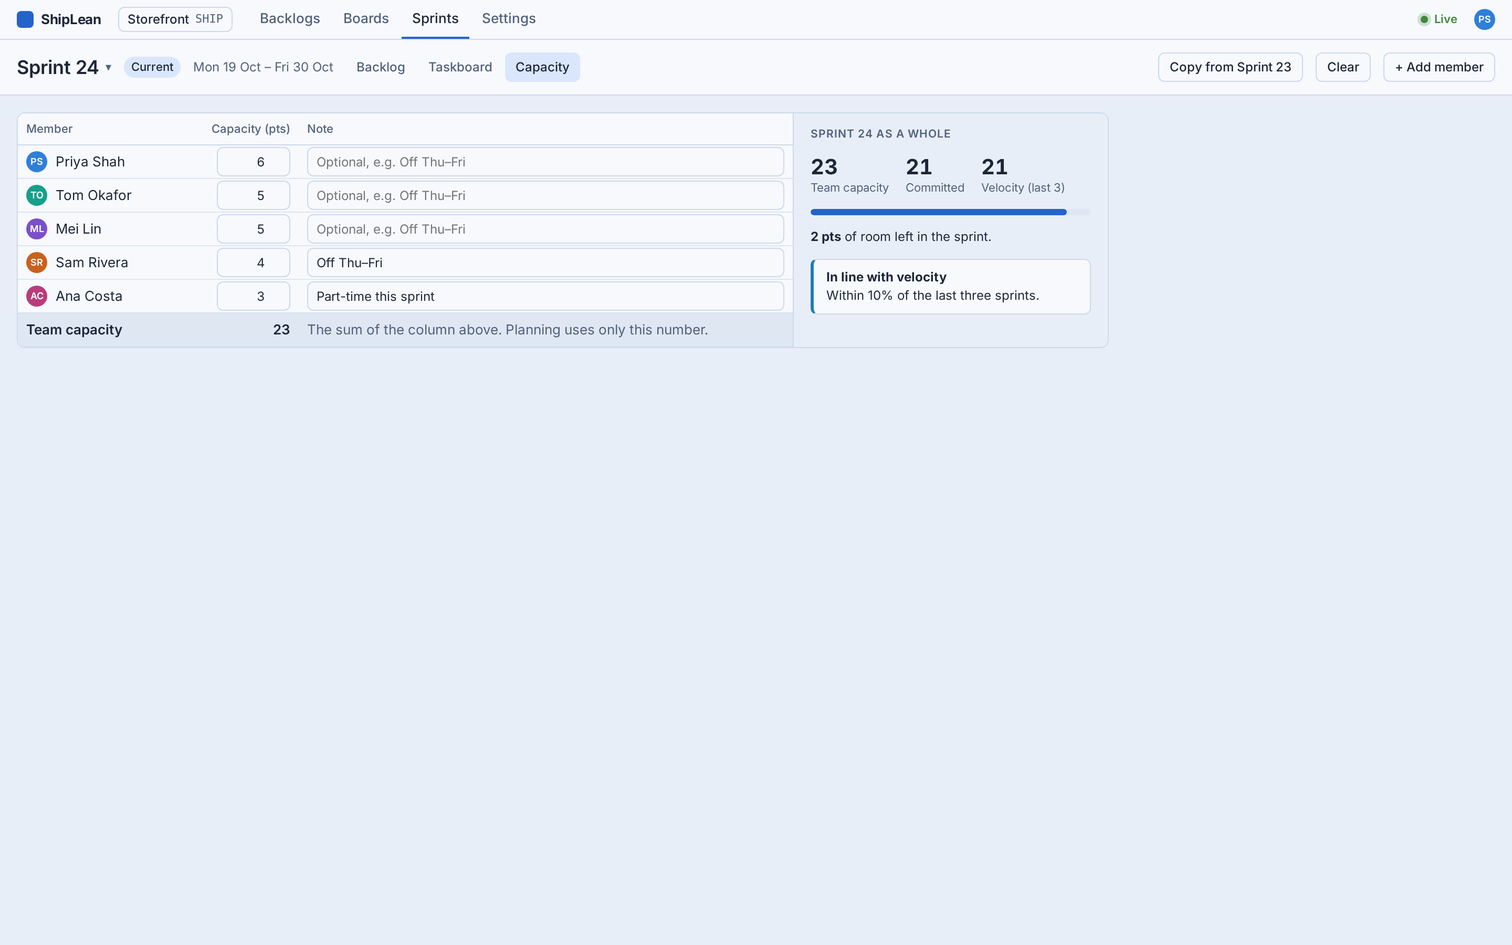
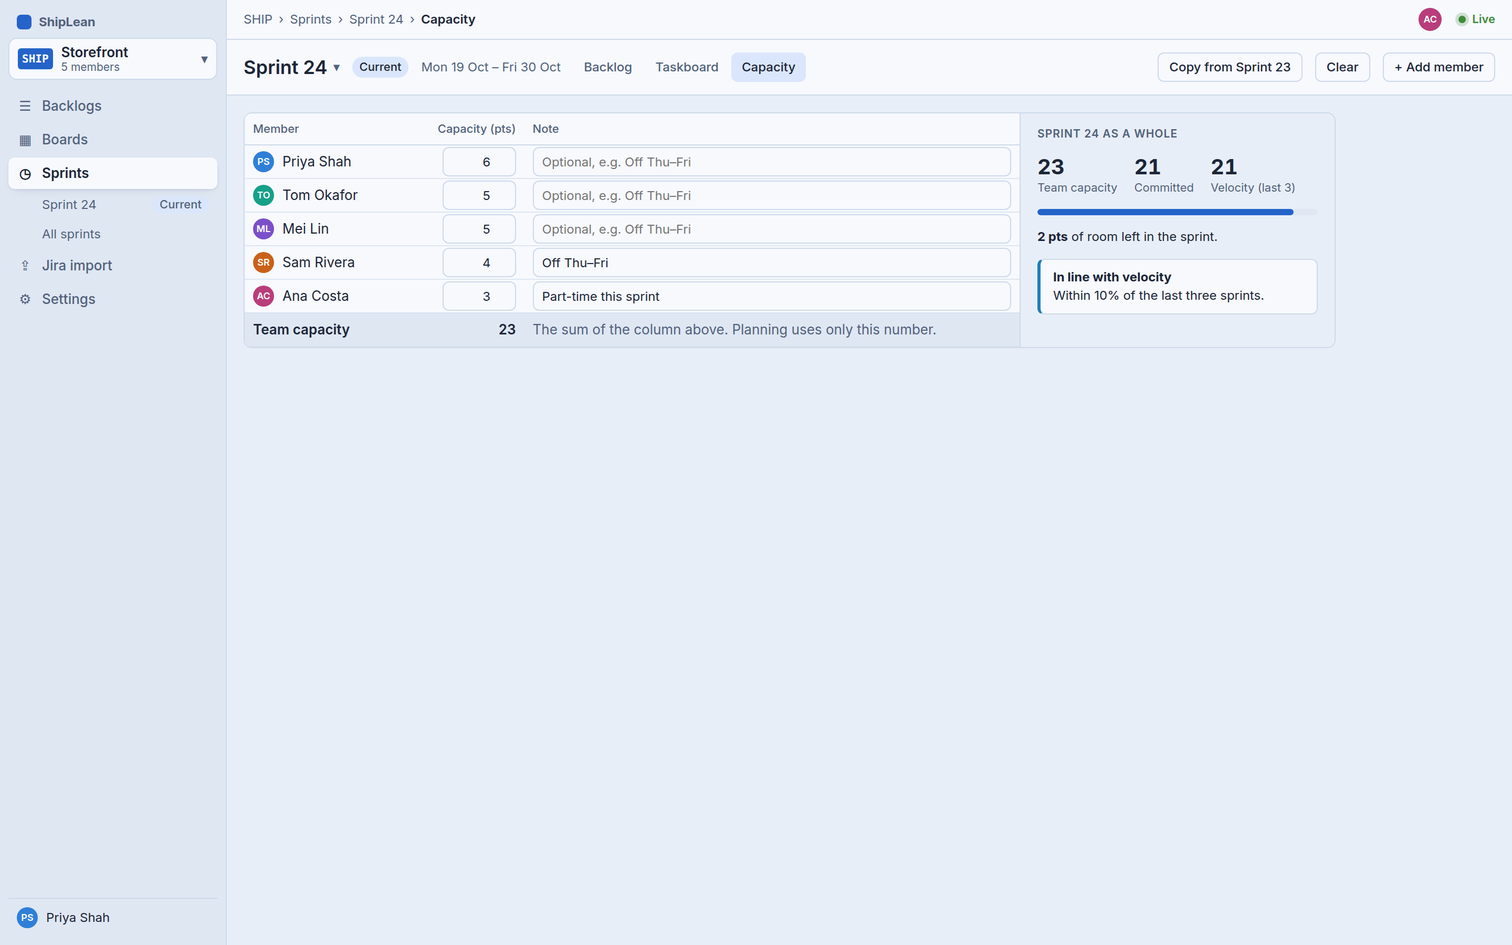
Use the PR #5 screens: board hero, eight-screen tour, Boards and Jira import spotlights
All screenshots now come from the side-menu shell in joeldickson/shiplean#5.

diff --git a/site/index.html b/site/index.html
@@ -344,8 +344,9 @@
   .brand .mark-sm i { left: 5px; top: 13px; width: 4px; height: 1.6px; }
 
   /* Crops for the spotlights */
-  .crop.plan img { object-position: left bottom; transform: scale(1.25); transform-origin: 0% 100%; }
-  .crop.styles img { transform: scale(1.3); transform-origin: 50% 50%; }
+  .crop.plan img { transform: scale(1.25); transform-origin: 30% 100%; }
+  .crop.board img { transform: scale(1.35); transform-origin: 60% 0%; }
+  .crop.jira img { object-position: left top; transform: scale(1.19); transform-origin: 100% 0%; }
   .crop.end img { transform: scale(1.75); transform-origin: 50% 50%; }
 </style>
 </head>
@@ -382,8 +383,8 @@
       <a href="#why">Why ShipLean</a>
       <a href="#tour">Tour</a>
       <a href="#forecast">Forecast</a>
-      <a href="#taskboard">Taskboard</a>
-      <a href="#sprint-end">Sprint end</a>
+      <a href="#board">Boards</a>
+      <a href="#jira">Jira import</a>
       <a href="#roadmap">Roadmap</a>
     </nav>
     <div class="nav-spacer"></div>
@@ -400,7 +401,7 @@
     <div class="wrap">
       <span class="pill"><span class="tag">Coming soon</span><span class="dot" aria-hidden="true"></span>Free and open source, built in the open</span>
       <h1>Plan less.<br><span class="grad">Ship more.</span></h1>
-      <p class="lede">ShipLean is a free, open-source planning tool you host yourself. Rank the backlog, plan sprints against what the team can really do and run the sprint on a live taskboard, with a forecast that tells you what fits before anyone asks.</p>
+      <p class="lede">ShipLean is a free, open-source planning tool you host yourself. Rank the backlog, run a Kanban board, plan sprints against what the team can really do and work the sprint on a live taskboard, with a forecast that tells you what fits before anyone asks.</p>
       <div class="cta-row">
         <a class="btn btn-primary" href="https://github.com/shiplean"><svg><use href="#i-gh"/></svg>Follow on GitHub</a>
         <a class="btn btn-ghost" href="#tour">Take the tour<svg><use href="#i-arrow"/></svg></a>
@@ -413,29 +414,29 @@
 
       <div class="stage">
         <div class="side l frame" aria-hidden="true">
-          <img class="only-light" src="shots/sprint-backlog-light.webp" alt="">
-          <img class="only-dark" src="shots/sprint-backlog-dark.webp" alt="">
+          <img class="only-light" src="shots/planning-light.webp" alt="">
+          <img class="only-dark" src="shots/planning-dark.webp" alt="">
         </div>
         <div class="side r frame" aria-hidden="true">
-          <img class="only-light" src="shots/taskboard-light.webp" alt="">
-          <img class="only-dark" src="shots/taskboard-dark.webp" alt="">
+          <img class="only-light" src="shots/work-item-light.webp" alt="">
+          <img class="only-dark" src="shots/work-item-dark.webp" alt="">
         </div>
         <div class="main frame">
           <div class="frame-bar"><i></i><i></i><i></i><span class="url"><svg><use href="#i-lock"/></svg>shiplean.app</span><span class="bal"></span></div>
-          <img class="only-light" src="shots/planning-light.webp" alt="The ShipLean Planning screen: Sprint 24, 25 and 26 stacked above the ranked backlog, with capacity bars and a forecast line for each future sprint" width="2000" height="1250">
-          <img class="only-dark" src="shots/planning-dark.webp" alt="The ShipLean Planning screen in dark mode" width="2000" height="1250">
+          <img class="only-light" src="shots/board-light.webp" alt="The ShipLean Stories board: columns mapped to states, WIP limits, an Expedite swimlane and cards with tags, task roll-ups and assignees" width="2000" height="1250">
+          <img class="only-dark" src="shots/board-dark.webp" alt="The ShipLean Stories board in dark mode" width="2000" height="1250">
         </div>
         <div class="callout c1">
-          <span class="ic" style="background:var(--color-accent-soft);color:var(--color-accent)"><svg><use href="#i-right"/></svg></span>
-          <span><b>→ Sprint 26</b><span class="muted">Forecast at velocity 21</span></span>
+          <span class="ic" style="background:color-mix(in srgb, var(--color-danger) 16%, transparent);color:var(--color-danger)"><svg><use href="#i-board"/></svg></span>
+          <span><b>In review 3/2</b><span class="muted">Over the WIP limit, nothing blocked</span></span>
         </div>
         <div class="callout c2">
-          <span class="ic" style="background:color-mix(in srgb, var(--type-feature) 16%, transparent);color:var(--type-feature)"><svg><use href="#i-bolt"/></svg></span>
-          <span><b>Mei moved SHIP-151</b><span class="muted">into Sprint 25, just now</span></span>
+          <span class="ic" style="background:color-mix(in srgb, var(--type-feature) 16%, transparent);color:var(--type-feature)"><svg><use href="#i-people"/></svg></span>
+          <span><b>Tom, Ana and Mei</b><span class="muted">are on this board with you</span></span>
         </div>
         <div class="callout c3">
           <span class="ic" style="background:color-mix(in srgb, var(--color-ok) 16%, transparent);color:var(--color-ok)"><svg><use href="#i-check"/></svg></span>
-          <span><b>21 / 23 pts</b><span class="muted">2 free in Sprint 24</span></span>
+          <span><b>SHIP-158 → In progress</b><span class="muted">Picked up, assigned to you</span></span>
         </div>
       </div>
     </div>
@@ -475,21 +476,49 @@
     <div class="wrap">
       <div class="sec-head center">
         <div class="eyebrow">Tour</div>
-        <h2>Six screens, one backlog.</h2>
-        <p>Planning, the sprint, the taskboard and capacity are all views over the same work items, so nothing is ever copied between them.</p>
+        <h2>Eight screens, one backlog.</h2>
+        <p>The backlog, the board, the sprint and the taskboard are all views over the same work items, so nothing is ever copied between them.</p>
       </div>
 
       <div class="tour">
         <div class="tabs" role="tablist" aria-label="ShipLean screens">
-          <button class="tab" role="tab" aria-selected="true" data-t="planning"><svg><use href="#i-list"/></svg>Planning</button>
-          <button class="tab" role="tab" aria-selected="false" data-t="sprint"><svg><use href="#i-sprint"/></svg>Sprint backlog</button>
-          <button class="tab" role="tab" aria-selected="false" data-t="taskboard"><svg><use href="#i-board"/></svg>Taskboard</button>
+          <button class="tab" role="tab" aria-selected="true" data-t="backlog"><svg><use href="#i-list"/></svg>Backlog</button>
+          <button class="tab" role="tab" aria-selected="false" data-t="board"><svg><use href="#i-board"/></svg>Boards</button>
+          <button class="tab" role="tab" aria-selected="false" data-t="planning"><svg><use href="#i-sprint"/></svg>Planning</button>
+          <button class="tab" role="tab" aria-selected="false" data-t="taskboard"><svg><use href="#i-states"/></svg>Taskboard</button>
+          <button class="tab" role="tab" aria-selected="false" data-t="work-item"><svg><use href="#i-flag"/></svg>Work item</button>
           <button class="tab" role="tab" aria-selected="false" data-t="capacity"><svg><use href="#i-people"/></svg>Capacity</button>
           <button class="tab" role="tab" aria-selected="false" data-t="sprints"><svg><use href="#i-chart"/></svg>All sprints</button>
-          <button class="tab" role="tab" aria-selected="false" data-t="end"><svg><use href="#i-flag"/></svg>Sprint end</button>
+          <button class="tab" role="tab" aria-selected="false" data-t="settings"><svg><use href="#i-gear"/></svg>Settings</button>
         </div>
 
-        <div class="panel on" id="p-planning" role="tabpanel">
+        <div class="panel on" id="p-backlog" role="tabpanel">
+          <div>
+            <h3>Rank the backlog, top to bottom</h3>
+            <p>One ordered list per level, Epics, Features or Stories, with the sprint each item is in.</p>
+            <ul class="ticks">
+              <li><svg><use href="#i-check"/></svg>New work goes in at the top</li>
+              <li><svg><use href="#i-check"/></svg>Show parents to work by Feature</li>
+              <li><svg><use href="#i-check"/></svg>A Criteria filter and your own columns</li>
+            </ul>
+          </div>
+          <div class="frame"><img class="only-light" src="shots/backlog-light.webp" alt="ShipLean Backlog screen" loading="lazy"><img class="only-dark" src="shots/backlog-dark.webp" alt="ShipLean Backlog screen, dark" loading="lazy"></div>
+        </div>
+
+        <div class="panel" id="p-board" role="tabpanel">
+          <div>
+            <h3>A Kanban board that fits your process</h3>
+            <p>Columns map to states for each type, so one board holds stories and bugs that move differently.</p>
+            <ul class="ticks">
+              <li><svg><use href="#i-check"/></svg>WIP limits that warn without blocking</li>
+              <li><svg><use href="#i-check"/></svg>Split columns and a definition of done</li>
+              <li><svg><use href="#i-check"/></svg>Swimlanes and card style rules</li>
+            </ul>
+          </div>
+          <div class="frame"><img class="only-light" src="shots/board-light.webp" alt="ShipLean Boards screen" loading="lazy"><img class="only-dark" src="shots/board-dark.webp" alt="ShipLean Boards screen, dark" loading="lazy"></div>
+        </div>
+
+        <div class="panel" id="p-planning" role="tabpanel">
           <div>
             <h3>Plan the next few sprints in one list</h3>
             <p>The current sprint, the future sprints and the backlog, stacked in one ranked list.</p>
@@ -499,20 +528,7 @@
               <li><svg><use href="#i-check"/></svg>A forecast line for each sprint the backlog reaches</li>
             </ul>
           </div>
-          <div class="frame"><img class="only-light" src="shots/planning-light.webp" alt="ShipLean Planning screen with sprint sections above the backlog" loading="lazy"><img class="only-dark" src="shots/planning-dark.webp" alt="ShipLean Planning screen, dark" loading="lazy"></div>
-        </div>
-
-        <div class="panel" id="p-sprint" role="tabpanel">
-          <div>
-            <h3>Everything about this sprint on one screen</h3>
-            <p>The goal, the burndown and the stories with their tasks, plus what's ready for someone to pick up.</p>
-            <ul class="ticks">
-              <li><svg><use href="#i-check"/></svg>Burndown against an ideal line</li>
-              <li><svg><use href="#i-check"/></svg>Change state in place from the list</li>
-              <li><svg><use href="#i-check"/></svg>Ready to pick up and In progress now, side by side</li>
-            </ul>
-          </div>
-          <div class="frame"><img class="only-light" src="shots/sprint-backlog-light.webp" alt="ShipLean Sprint backlog with burndown, tasks and a Ready to pick up rail" loading="lazy"><img class="only-dark" src="shots/sprint-backlog-dark.webp" alt="ShipLean Sprint backlog, dark" loading="lazy"></div>
+          <div class="frame"><img class="only-light" src="shots/planning-light.webp" alt="ShipLean Planning screen" loading="lazy"><img class="only-dark" src="shots/planning-dark.webp" alt="ShipLean Planning screen, dark" loading="lazy"></div>
         </div>
 
         <div class="panel" id="p-taskboard" role="tabpanel">
@@ -525,7 +541,20 @@
               <li><svg><use href="#i-check"/></svg>Finished stories fold down to a single line</li>
             </ul>
           </div>
-          <div class="frame"><img class="only-light" src="shots/taskboard-light.webp" alt="ShipLean Sprint Taskboard with stories as rows and task states as columns" loading="lazy"><img class="only-dark" src="shots/taskboard-dark.webp" alt="ShipLean Sprint Taskboard, dark" loading="lazy"></div>
+          <div class="frame"><img class="only-light" src="shots/taskboard-light.webp" alt="ShipLean Taskboard screen" loading="lazy"><img class="only-dark" src="shots/taskboard-dark.webp" alt="ShipLean Taskboard screen, dark" loading="lazy"></div>
+        </div>
+
+        <div class="panel" id="p-work-item" role="tabpanel">
+          <div>
+            <h3>Everything about one story on one page</h3>
+            <p>Description, acceptance criteria, tasks, discussion, links and the full history of every change.</p>
+            <ul class="ticks">
+              <li><svg><use href="#i-check"/></svg>Acceptance criteria as a checklist</li>
+              <li><svg><use href="#i-check"/></svg>Tasks and comments save straight away</li>
+              <li><svg><use href="#i-check"/></svg>If someone saved first, see what they changed</li>
+            </ul>
+          </div>
+          <div class="frame"><img class="only-light" src="shots/work-item-light.webp" alt="ShipLean Work item screen" loading="lazy"><img class="only-dark" src="shots/work-item-dark.webp" alt="ShipLean Work item screen, dark" loading="lazy"></div>
         </div>
 
         <div class="panel" id="p-capacity" role="tabpanel">
@@ -538,7 +567,7 @@
               <li><svg><use href="#i-check"/></svg>Copy last sprint's numbers in one click</li>
             </ul>
           </div>
-          <div class="frame"><img class="only-light" src="shots/capacity-light.webp" alt="ShipLean Capacity screen with points per member and a team total" loading="lazy"><img class="only-dark" src="shots/capacity-dark.webp" alt="ShipLean Capacity screen, dark" loading="lazy"></div>
+          <div class="frame"><img class="only-light" src="shots/capacity-light.webp" alt="ShipLean Capacity screen" loading="lazy"><img class="only-dark" src="shots/capacity-dark.webp" alt="ShipLean Capacity screen, dark" loading="lazy"></div>
         </div>
 
         <div class="panel" id="p-sprints" role="tabpanel">
@@ -551,20 +580,20 @@
               <li><svg><use href="#i-check"/></svg>Overlapping dates caught before they're saved</li>
             </ul>
           </div>
-          <div class="frame"><img class="only-light" src="shots/sprints-light.webp" alt="ShipLean All sprints screen with a velocity chart and sprint table" loading="lazy"><img class="only-dark" src="shots/sprints-dark.webp" alt="ShipLean All sprints screen, dark" loading="lazy"></div>
+          <div class="frame"><img class="only-light" src="shots/sprints-light.webp" alt="ShipLean All sprints screen" loading="lazy"><img class="only-dark" src="shots/sprints-dark.webp" alt="ShipLean All sprints screen, dark" loading="lazy"></div>
         </div>
 
-        <div class="panel" id="p-end" role="tabpanel">
+        <div class="panel" id="p-settings" role="tabpanel">
           <div>
-            <h3>Close the sprint without the shuffle</h3>
-            <p>When a sprint ends with work unfinished, ShipLean asks once where each item should go.</p>
+            <h3>States that match how you work</h3>
+            <p>Rename, add and reorder the states of each type. Colours and totals follow the category, so a rename never breaks a report.</p>
             <ul class="ticks">
-              <li><svg><use href="#i-check"/></svg>Next sprint, top of the backlog, or leave it</li>
-              <li><svg><use href="#i-check"/></svg>A warning if the next sprint goes over</li>
-              <li><svg><use href="#i-check"/></svg>History and velocity stay exactly as they were</li>
+              <li><svg><use href="#i-check"/></svg>Custom states per type, like <em>Triaged</em> or <em>In review</em></li>
+              <li><svg><use href="#i-check"/></svg>A project key that never changes</li>
+              <li><svg><use href="#i-check"/></svg>Members, working days and the velocity window</li>
             </ul>
           </div>
-          <div class="frame"><img class="only-light" src="shots/sprint-end-light.webp" alt="ShipLean Sprint end dialog listing unfinished items and where each one goes" loading="lazy"><img class="only-dark" src="shots/sprint-end-dark.webp" alt="ShipLean Sprint end dialog, dark" loading="lazy"></div>
+          <div class="frame"><img class="only-light" src="shots/settings-light.webp" alt="ShipLean Settings screen" loading="lazy"><img class="only-dark" src="shots/settings-dark.webp" alt="ShipLean Settings screen, dark" loading="lazy"></div>
         </div>
       </div>
     </div>
@@ -594,20 +623,19 @@
         </div>
       </div>
 
-      <div class="spot flip" id="taskboard">
+      <div class="spot flip" id="board">
         <div class="copy">
-          <div class="eyebrow">Taskboard</div>
-          <h2>Make the right cards stand out.</h2>
-          <p>Choose which fields every card shows, colour tags, and add style rules like <em>tagged Blocked</em> or <em>waiting on my review</em>. The first matching rule wins, and every open board picks up the change straight away.</p>
+          <div class="eyebrow">Boards</div>
+          <h2>Columns aren't states.</h2>
+          <p>Each column maps to a state for each type, so <em>Ready</em> can mean New for a story and Triaged for a bug. Set WIP limits, split a column into Doing and Done, write its definition of done, and add an Expedite lane for Priority 1. Drag an unassigned card into an In Progress column and it's yours.</p>
           <div class="stat-row">
-            <div class="stat"><b>Fields</b><span>per card and row</span></div>
-            <div class="stat"><b>Rules</b><span>from simple criteria</span></div>
-            <div class="stat"><b>Live</b><span>for the whole team</span></div>
+            <div class="stat"><b>WIP</b><span>limits that warn, never block</span></div>
+            <div class="stat"><b>Lanes</b><span>from simple criteria</span></div>
           </div>
         </div>
-        <div class="frame crop styles">
-          <img class="only-light" src="shots/taskboard-styles-light.webp" alt="Taskboard settings with style rules for blocked and priority 1 cards" width="2000" height="1250">
-          <img class="only-dark" src="shots/taskboard-styles-dark.webp" alt="Taskboard style rules, dark" width="2000" height="1250">
+        <div class="frame crop board">
+          <img class="only-light" src="shots/board-light.webp" alt="Stories board columns with WIP limits and an Expedite swimlane" width="2000" height="1250">
+          <img class="only-dark" src="shots/board-dark.webp" alt="Stories board, dark" width="2000" height="1250">
         </div>
       </div>
 
@@ -627,11 +655,28 @@
         </div>
       </div>
 
+      <div class="spot flip" id="jira">
+        <div class="copy">
+          <div class="eyebrow">Jira import</div>
+          <h2>Bring your Jira project with you.</h2>
+          <p>Connect, pick a project and review how its issue types, statuses and people map across before anything is written. Comments, attachments, sprints and the change history come too, and nothing is ever written back to Jira.</p>
+          <div class="stat-row">
+            <div class="stat"><b>5 steps</b><span>from connect to run</span></div>
+            <div class="stat"><b>History</b><span>kept as revisions</span></div>
+            <div class="stat"><b>Re-run</b><span>when you're ready</span></div>
+          </div>
+        </div>
+        <div class="frame crop jira">
+          <img class="only-light" src="shots/import-light.webp" alt="Jira import mapping review: issue types, statuses and users" width="2000" height="1250">
+          <img class="only-dark" src="shots/import-dark.webp" alt="Jira import mapping review, dark" width="2000" height="1250">
+        </div>
+      </div>
+
       <div class="minis">
-        <div class="mini"><svg><use href="#i-server"/></svg><h4>Yours to host</h4><p>One install for your whole company, on your own server, with your data.</p></div>
-        <div class="mini"><svg><use href="#i-bolt"/></svg><h4>Live everywhere</h4><p>Moves by teammates animate in place, with a note saying who did what.</p></div>
+        <div class="mini"><svg><use href="#i-server"/></svg><h4>Yours to host</h4><p>One install for every team, on your own server, with a project picker to jump between them.</p></div>
+        <div class="mini"><svg><use href="#i-bolt"/></svg><h4>See who's here</h4><p>Faces of everyone on the same screen, and their moves animate in place as they happen.</p></div>
         <div class="mini"><svg><use href="#i-states"/></svg><h4>Your own states</h4><p>Name the states each project needs; colours follow the category, so totals still add up.</p></div>
-        <div class="mini"><svg><use href="#i-import"/></svg><h4>Bring it from Jira</h4><p>Import an existing Jira project instead of starting from a blank backlog.</p></div>
+        <div class="mini"><svg><use href="#i-sprint"/></svg><h4>Every change kept</h4><p>Each save is a revision, so burndown, velocity and history read from what really happened.</p></div>
       </div>
     </div>
   </section>
@@ -643,14 +688,14 @@
         <div>
           <div class="eyebrow">Open source</div>
           <h2>Built in the open.<br>Coming soon.</h2>
-          <p>ShipLean will be free and open source. The sprint screens are designed and version 1 is being built now. Follow the project on GitHub to watch it take shape and to hear first when it's ready to install.</p>
+          <p>ShipLean will be free and open source. Every screen is designed and version 1 is being built now. Follow the project on GitHub to watch it take shape and to hear first when it's ready to install.</p>
           <div class="cta-row" style="justify-content:flex-start">
             <a class="btn btn-primary" href="https://github.com/shiplean"><svg><use href="#i-gh"/></svg>Follow on GitHub</a>
           </div>
         </div>
         <ol class="road">
-          <li class="done"><span class="node"><svg><use href="#i-check"/></svg></span><div><b>Design<span class="badge">Done</span></b><span>Planning, sprint and taskboard screens, light and dark</span></div></li>
-          <li class="now"><span class="node"></span><div><b>Version 1<span class="badge">Building</span></b><span>Backlogs, boards, sprints, capacity and the taskboard</span></div></li>
+          <li class="done"><span class="node"><svg><use href="#i-check"/></svg></span><div><b>Design<span class="badge">Done</span></b><span>Every v1 screen, light and dark</span></div></li>
+          <li class="now"><span class="node"></span><div><b>Version 1<span class="badge">Building</span></b><span>Backlogs, boards, sprints, the taskboard, work items, settings and Jira import</span></div></li>
           <li><span class="node"></span><div><b>Open source release</b><span>Free to download and host yourself</span></div></li>
           <li><span class="node"></span><div><b>Later</b><span>Roadmaps and delivery plans across teams</span></div></li>
         </ol>

diff --git a/design/tokens/tokens.css b/design/tokens/tokens.css
@@ -63,6 +63,7 @@
   --control-height: 28px;  /* buttons, inputs, selects */
   --row-height: 32px;      /* table / list rows */
   --rail-width: 280px;     /* right-hand summary rail */
+  --sidebar-width: 216px;  /* left side menu: project picker + navigation */
   --dialog-width: 680px;   /* wide dialogs (sprint end) */
 
   /* Work item types: a separate palette from the UI colours above. Use only on type icons. */
@@ -82,6 +83,7 @@
   --control-height: 32px;
   --row-height: 38px;
   --rail-width: 320px;
+  --sidebar-width: 248px;
 }
 
 @media (prefers-color-scheme: dark) {

diff --git a/site/tokens.css b/site/tokens.css
@@ -63,6 +63,7 @@
   --control-height: 28px;  /* buttons, inputs, selects */
   --row-height: 32px;      /* table / list rows */
   --rail-width: 280px;     /* right-hand summary rail */
+  --sidebar-width: 216px;  /* left side menu: project picker + navigation */
   --dialog-width: 680px;   /* wide dialogs (sprint end) */
 
   /* Work item types: a separate palette from the UI colours above. Use only on type icons. */
@@ -82,6 +83,7 @@
   --control-height: 32px;
   --row-height: 38px;
   --rail-width: 320px;
+  --sidebar-width: 248px;
 }
 
 @media (prefers-color-scheme: dark) {

diff --git a/design/social/og-card.html b/design/social/og-card.html
@@ -49,6 +49,6 @@
     <h1>Plan less.<br><span class="grad">Ship more.</span></h1>
     <p>Backlogs, boards and sprints<br>you host yourself.</p>
   </div>
-  <div class="shot"><img src="../../site/shots/planning-dark.webp" alt=""></div>
+  <div class="shot"><img src="../../site/shots/board-dark.webp" alt=""></div>
 </body>
 </html>

diff --git a/design/README.md b/design/README.md
@@ -48,7 +48,7 @@ The landing page adds one brand gradient for the mark and highlighted headline w
 
 ## Screenshots
 
-The screenshots come from the reference screens in the app repo (`design/screens/*.html`), captured at 1440×900 at 2x by its `design/screenshots.sh`. The variants (`taskboard-people`, `taskboard-settings`, `taskboard-styles`) are the Taskboard in another state.
+The screenshots come from the reference screens in the app repo (`design/screens/*.html`), captured at 1440×900 at 2x by its `design/screenshots.sh`. Variants such as `backlog-tree`, `features-epics`, `import-key`, `import-run`, `work-item-bug` and the `taskboard-*` files are one screen in another state. The website uses only the ones in `site/shots/`.
 
 The website uses 2000px-wide WebP copies of these in `site/shots/` (quality 82). To make one from a PNG:
 
